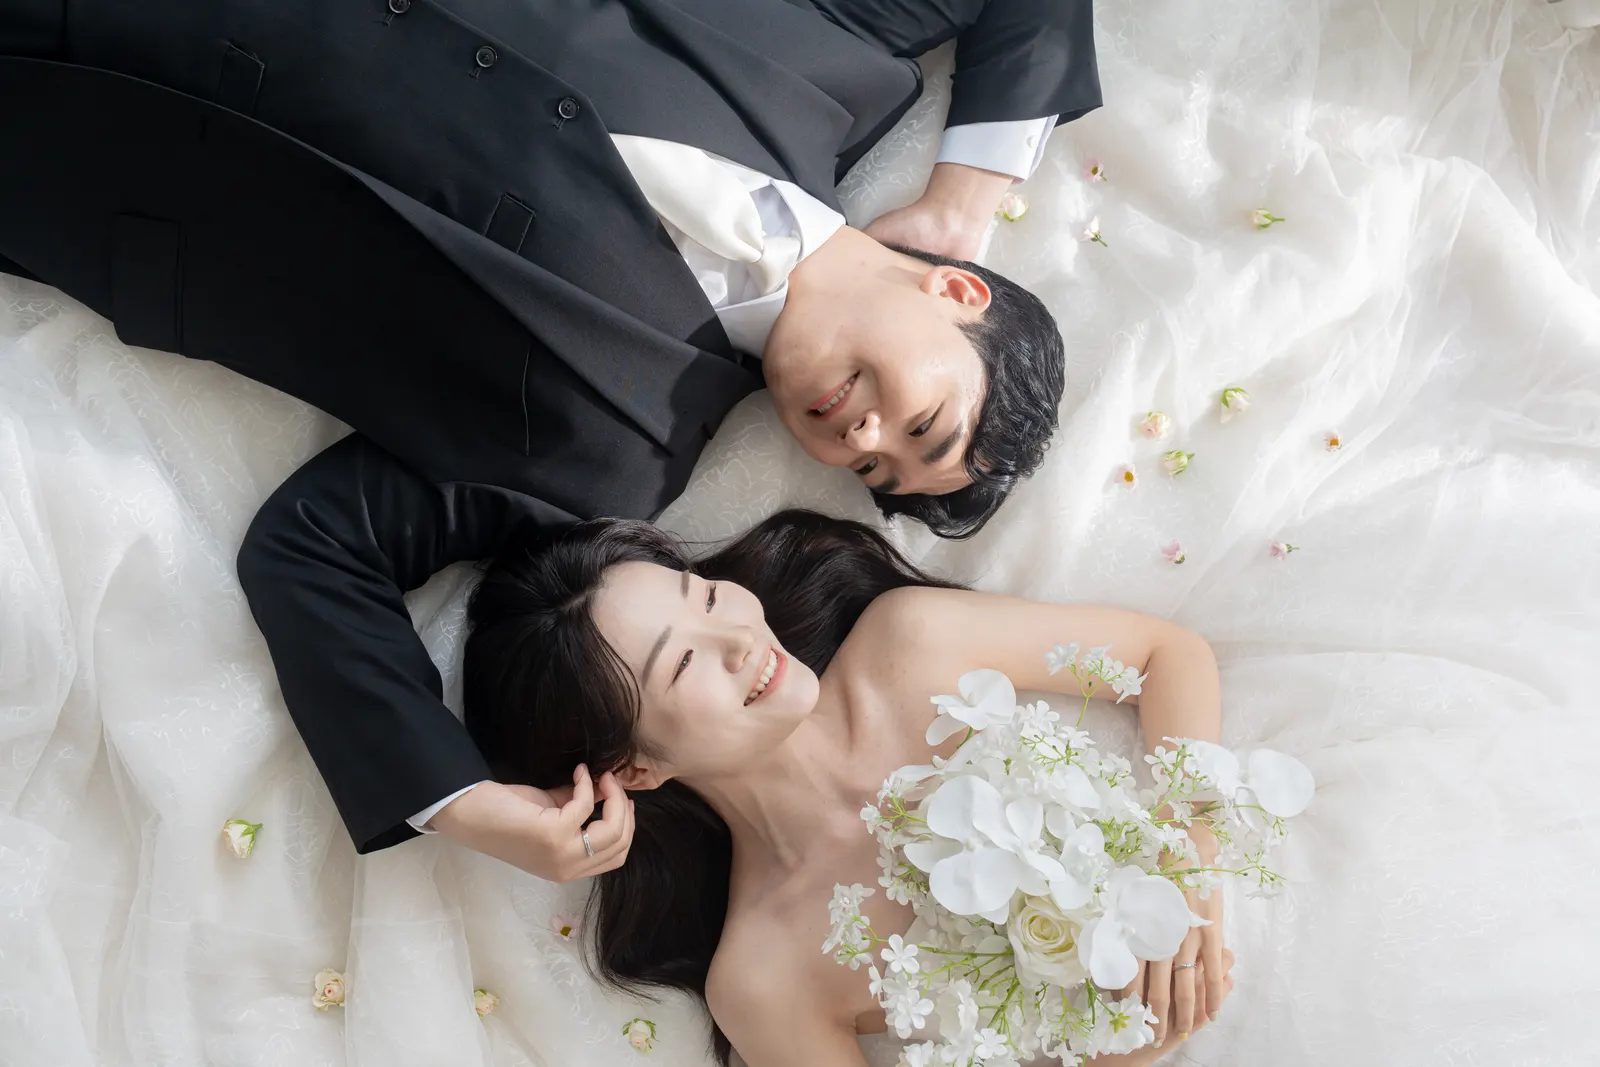
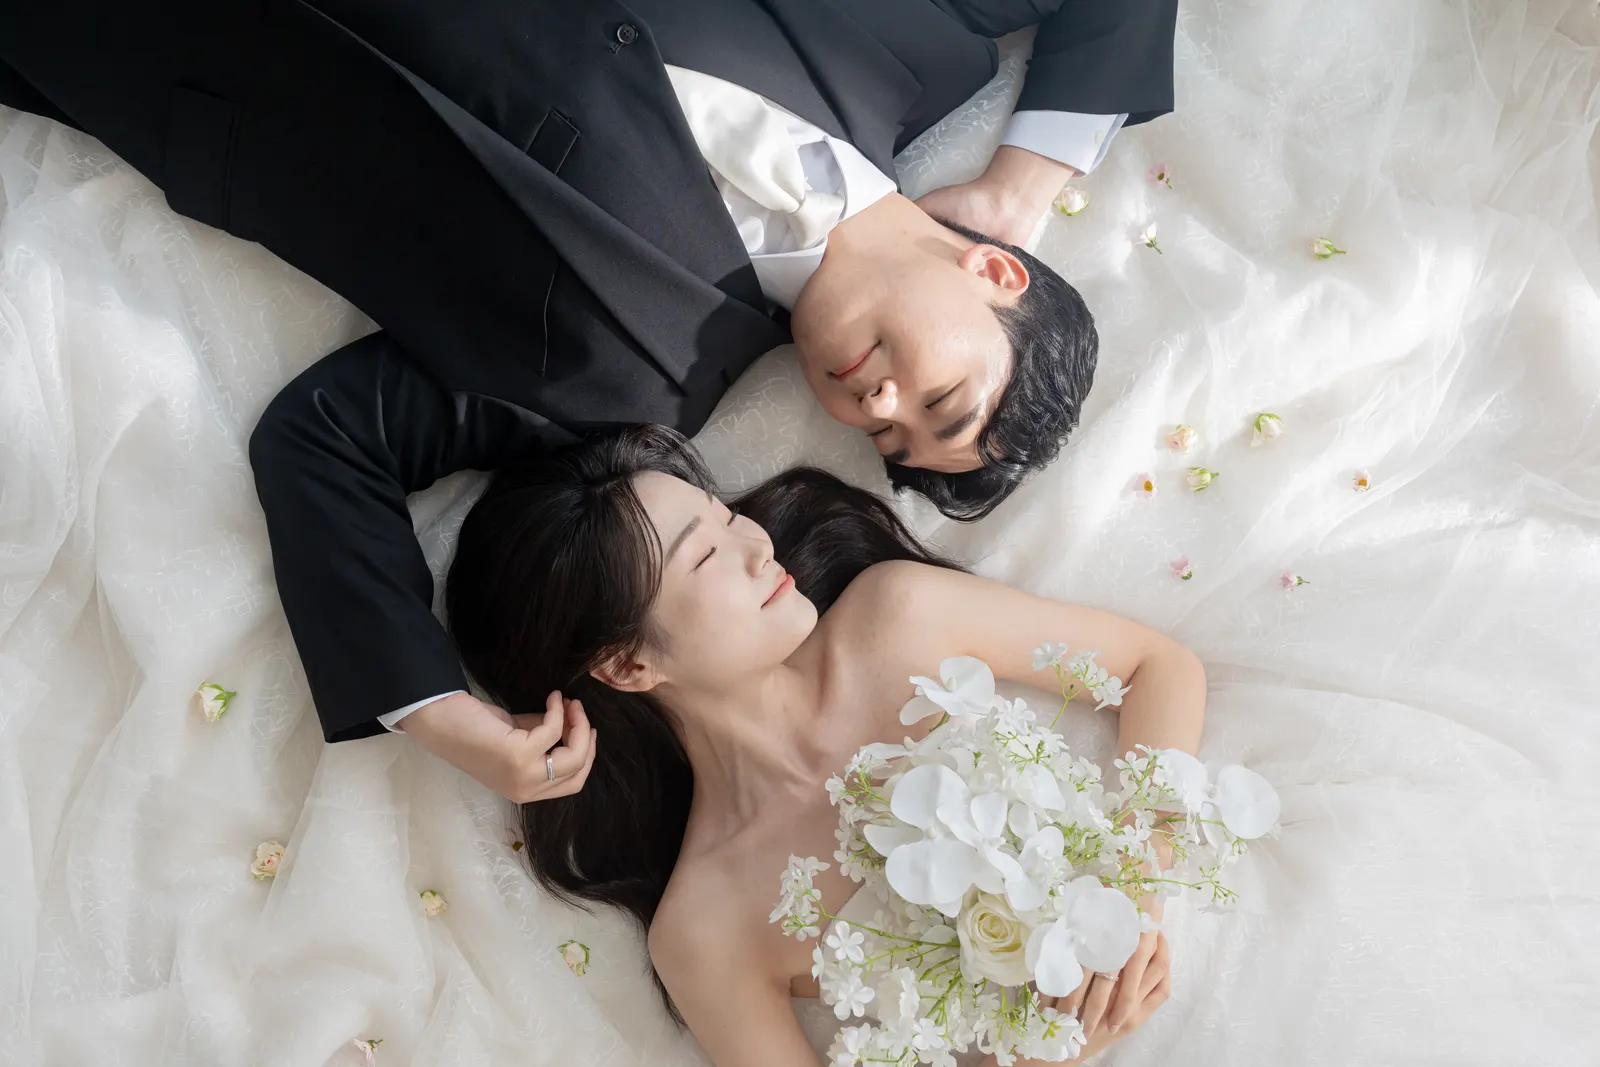
갤러리 3번 사진 교체

diff --git a/src/components/GallerySection.tsx b/src/components/GallerySection.tsx
@@ -14,7 +14,7 @@ type SlideTarget = "prev" | "next" | "center" | null;
 const SLIDE_DURATION = 260;
 const PREVIEW_COUNT = 9;
 const PREFETCH_DISTANCE = 2;
-const GALLERY_ASSET_VERSION = "20260809-15";
+const GALLERY_ASSET_VERSION = "20260809-03-2";
 
 function galleryAsset(path: string) {
   return `${asset(path)}?v=${GALLERY_ASSET_VERSION}`;
